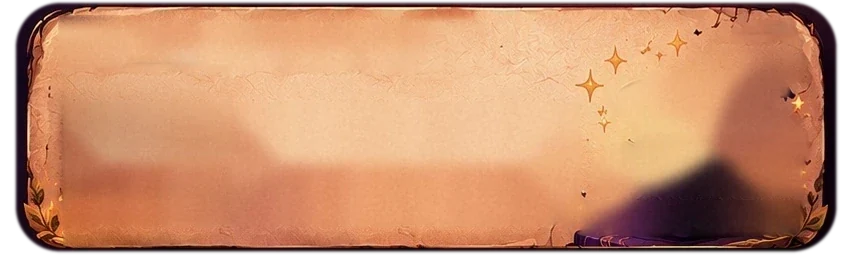
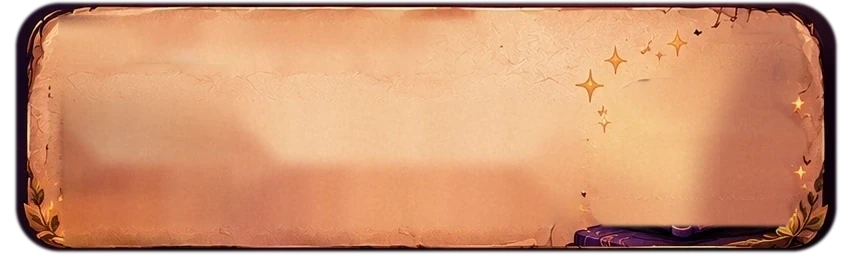
Home: his clean mug (no painted steam), soft puffy natural steam, cleaner pumpkin cut-out with a happy startled hop, giggle right beside him — home-111
Claude-Session: https://claude.ai/code/session_01DZ2Pcymwnpb1uk9AjuiEZF

Changed region(s): [[0.6714, 0.556, 0.946, 0.9266], [0.9155, 0.3398, 0.946, 0.4015], [0.9155, 0.6486, 0.946, 0.6795]]

diff --git a/homefx.js b/homefx.js
@@ -5,68 +5,58 @@
   const reduce=matchMedia('(prefers-reduced-motion: reduce)').matches;
 
   /* ---------- 1. steam ---------- */
-  /* three glowing ribbons, like the painted curls: a wave travels up each one; a finger pushes the ribbon
-     aside (it springs back), and a quick swipe also scatters a few loose puffs */
+  /* soft, puffy steam: cloudy puffs rise from the cup, swell, curl in a gentle draught and thin out.
+     A finger pushes and swirls them; new puffs keep coming, so it always settles back. */
   const cv=document.getElementById('steam');
   if(cv){
     // canvas units = pixels of the nook_fg picture (544×296), which the card shows at its full height on the right
-    const c=cv.getContext('2d'),CW=260,CH=135,FX=238;     // canvas covers picture x 238…498, y 0…135
-    const MX=112,MY=108,N=28,TOP=3;                        // mug opening centre x, just below the rim; points per ribbon; highest point
+    const c=cv.getContext('2d'),CW=300,CH=140,FX=200;     // canvas covers picture x 200…500, y 0…140
+    const MX=150,MY=104,MW=30;                             // cup opening: centre x, just under the rim, half width
     const nook=cv.parentElement;
+    let last=0,on=false,raf=0,ptr=null,T=0,acc=0,parts=[];
+    function size(){const r=cv.getBoundingClientRect(),D=Math.min(devicePixelRatio||1,2);
+      cv.width=Math.max(1,Math.round(r.width*D));cv.height=Math.max(1,Math.round(r.height*D));c.setTransform(cv.width/CW,0,0,cv.height/CH,0,0)}
     function place(){const H=nook.offsetHeight,W=nook.offsetWidth,s=H/296,left=W-544*s;   // same as the card's background placement
       cv.style.left=(left+FX*s)+'px';cv.style.top='0px';cv.style.width=(CW*s)+'px';cv.style.height=(CH*s)+'px';size()}
-    let k=1,last=0,on=false,raf=0,ptr=null,T=0,puffs=[];
-    const R=[{x:-20,ph:0,sp:1.7,amp:17,f:.058,w:9.5,h:.9},{x:2,ph:2.3,sp:1.45,amp:19,f:.048,w:11,h:1},{x:21,ph:4.4,sp:1.9,amp:14,f:.066,w:9,h:.78}]
-      .map(r=>({...r,ox:new Float32Array(N),oy:new Float32Array(N),vx:new Float32Array(N),vy:new Float32Array(N)}));
-    const dot=document.createElement('canvas');dot.width=dot.height=48;
-    {const d=dot.getContext('2d'),g=d.createRadialGradient(24,24,0,24,24,24);
-      g.addColorStop(0,'rgba(255,220,160,.9)');g.addColorStop(.4,'rgba(250,160,70,.4)');g.addColorStop(1,'rgba(240,130,50,0)');d.fillStyle=g;d.fillRect(0,0,48,48)}
-    function size(){
-      const r=cv.getBoundingClientRect();k=r.width/CW||1;const D=Math.min(devicePixelRatio||1,2);
-      cv.width=Math.max(1,Math.round(r.width*D));cv.height=Math.max(1,Math.round(r.height*D));c.setTransform(cv.width/CW,0,0,cv.height/CH,0,0)}
-    // where point i of a ribbon is now (without the finger's push)
-    function base(r,i){const u=i/(N-1),y=MY-(MY-TOP)*u*r.h,grow=Math.pow(u,.8);
-      // the breathing: each ribbon slowly leans and its height swells a little
-      const x=MX+r.x+Math.sin((MY-y)*r.f-T*r.sp+r.ph)*r.amp*grow+Math.sin(T*.4+r.ph)*8*u*u;
-      return [x,y]}
+    // a few cloudy puff pictures (lumpy, not perfect circles), made once
+    const SPR=[];for(let n=0;n<5;n++){const e=document.createElement('canvas');e.width=e.height=96;const d=e.getContext('2d');
+      for(let i=0;i<9;i++){const a=Math.random()*6.28,r=Math.random()*18,x=48+Math.cos(a)*r,y=48+Math.sin(a)*r,R=16+Math.random()*16,
+        g=d.createRadialGradient(x,y,0,x,y,R);g.addColorStop(0,'rgba(255,255,255,.55)');g.addColorStop(.5,'rgba(255,255,255,.22)');g.addColorStop(1,'rgba(255,255,255,0)');
+        d.fillStyle=g;d.fillRect(0,0,96,96)}
+      d.globalCompositeOperation='source-in';d.fillStyle='#fff3e4';d.fillRect(0,0,96,96);SPR.push(e)}
+    function emit(){const u=Math.random()*2-1;
+      parts.push({x:MX+u*MW*.8,y:MY-2-Math.random()*4,vx:u*3,vy:-(12+Math.random()*7),age:0,life:3.2+Math.random()*1.8,
+        r:7+Math.random()*5,g:1.0+Math.random()*.8,rot:Math.random()*6.28,vr:(Math.random()-.5)*.6,s:SPR[(Math.random()*SPR.length)|0],
+        k:.55+Math.random()*.45,sd:Math.random()*100})}
+    // a slow, lazy draught: the puffs curl left and right as they rise
+    const draft=(x,y,sd)=>Math.sin(y*.045+T*.55+sd)*7+Math.sin(x*.03-T*.4+sd*.7)*4+Math.sin(T*.23)*3;
     function step(dt){
-      T+=dt;
-      for(const r of R)for(let i=1;i<N;i++){     // the push springs back
-        r.vx[i]+=(-r.ox[i]*14-r.vx[i]*3.2)*dt;r.vy[i]+=(-r.oy[i]*14-r.vy[i]*3.2)*dt;r.ox[i]+=r.vx[i]*dt;r.oy[i]+=r.vy[i]*dt}
-      for(const p of puffs){p.age+=dt;p.x+=p.vx*dt;p.y+=p.vy*dt;p.vx*=Math.pow(.3,dt);p.vy+=(-14-p.vy)*Math.min(1,dt*2);p.r+=dt*7}
-      puffs=puffs.filter(p=>p.age<p.life)}
+      T+=dt;acc+=dt*13;while(acc>1){acc--;if(parts.length<90)emit()}
+      for(const p of parts){p.age+=dt;
+        p.vx+=(draft(p.x,p.y,p.sd)-p.vx)*Math.min(1,dt*.9);p.vy+=(-(13+p.age*2)-p.vy)*Math.min(1,dt*.8);
+        p.x+=p.vx*dt;p.y+=p.vy*dt;p.r+=p.g*dt*7;p.rot+=p.vr*dt}
+      parts=parts.filter(p=>p.age<p.life&&p.y>-p.r)}
     function draw(){
-      c.clearRect(0,0,CW,CH);c.lineCap='round';c.lineJoin='round';
-      for(const r of R){
-        const P=[];for(let i=0;i<N;i++){const [x,y]=base(r,i);P.push([x+r.ox[i],y+r.oy[i]])}
-        for(let pass=0;pass<2;pass++){          // soft glow underneath, bright core on top
-          for(let i=1;i<N;i++){const u=i/(N-1),fade=Math.min(1,u*14)*Math.pow(1-u,1.1);if(fade<.02)continue;
-            const w=r.w*(1-u*.7)*(pass?1:2.4);
-            c.strokeStyle=pass?`rgba(255,${172+Math.round(45*(1-u))},${82+Math.round(60*(1-u))},${.95*fade})`:`rgba(245,140,50,${.3*fade})`;
-            c.lineWidth=w;c.beginPath();const a=P[i-1],b=P[i],m=P[Math.min(N-1,i+1)];
-            c.moveTo(a[0],a[1]);c.quadraticCurveTo(b[0],b[1],(b[0]+m[0])/2,(b[1]+m[1])/2);c.stroke()}}
-      }
-      if(puffs.length){c.globalCompositeOperation='lighter';
-        for(const p of puffs){const t=p.age/p.life;c.globalAlpha=Math.min(1,p.age*5)*(1-t)*.5;const s=p.r*2;c.drawImage(dot,p.x-s/2,p.y-s/2,s,s)}
-        c.globalAlpha=1;c.globalCompositeOperation='source-over'}
-    }
+      c.clearRect(0,0,CW,CH);c.globalCompositeOperation='screen';
+      for(const p of parts){const t=p.age/p.life,h=Math.max(0,Math.min(1,(MY-p.y)/MY));
+        // thick and bright just above the cup, thinning out higher up
+        const a=Math.min(1,p.age*2.2)*Math.pow(1-t,1.6)*(1-h*.55)*.5*p.k;if(a<.01)continue;
+        c.globalAlpha=a;const S=p.r*2.4;c.save();c.translate(p.x,p.y);c.rotate(p.rot);c.drawImage(p.s,-S/2,-S/2,S,S);c.restore()}
+      c.globalAlpha=1;c.globalCompositeOperation='source-over'}
     function frame(now){const dt=Math.min(.05,(now-last)/1000||0);last=now;step(dt);draw();raf=on?requestAnimationFrame(frame):0}
     function start(){if(on||document.hidden||reduce)return;on=true;last=performance.now();raf=requestAnimationFrame(frame)}
     function stop(){on=false;if(raf)cancelAnimationFrame(raf);raf=0}
+    // a finger in the steam: nearby puffs are pushed away and swirled, and dragged along with a swipe
     const at=e=>{const r=cv.getBoundingClientRect();return{x:(e.clientX-r.left)/r.width*CW,y:(e.clientY-r.top)/r.height*CH}};
-    function stir(q,mvx,mvy,tap){
-      const sp=Math.hypot(mvx,mvy);
-      for(const r of R)for(let i=2;i<N;i++){const [bx,by]=base(r,i),x=bx+r.ox[i],y=by+r.oy[i],dx=x-q.x,dy=y-q.y,d=Math.hypot(dx,dy)||1;
-        if(d>40)continue;const f=1-d/40;
-        r.vx[i]+=(dx/d*(tap?160:70)+mvx*.5)*f;r.vy[i]+=(dy/d*(tap?60:30)+mvy*.3)*f*.6;
-        if((tap||sp>120)&&Math.random()<.18*f)puffs.push({x,y,vx:dx/d*30+mvx*.3,vy:-10+mvy*.2,r:3,age:0,life:.9+Math.random()*.6})}
-      if(!on&&!reduce)start()}
+    function stir(q,mvx,mvy,tap){for(const p of parts){const dx=p.x-q.x,dy=p.y-q.y,d=Math.hypot(dx,dy)||1,R=p.r+26;if(d>R)continue;const f=1-d/R;
+      p.vx+=(dx/d*(tap?55:25)-dy/d*20+mvx*.45)*f;p.vy+=(dy/d*(tap?55:25)+dx/d*20+mvy*.45)*f;p.vr+=(Math.random()-.5)*2*f;p.r+=tap?4*f:1.5*f}}
     cv.addEventListener('pointerdown',e=>{e.preventDefault();const q=at(e);ptr={...q,t:performance.now()};stir(q,0,0,true);try{cv.setPointerCapture(e.pointerId)}catch(err){}});
     cv.addEventListener('pointermove',e=>{if(!ptr)return;const q=at(e),now=performance.now(),dt=Math.max(.008,(now-ptr.t)/1000);
-      stir(q,Math.max(-600,Math.min(600,(q.x-ptr.x)/dt)),Math.max(-600,Math.min(600,(q.y-ptr.y)/dt)),false);ptr={...q,t:now}});
+      stir(q,Math.max(-400,Math.min(400,(q.x-ptr.x)/dt)),Math.max(-400,Math.min(400,(q.y-ptr.y)/dt)),false);ptr={...q,t:now}});
     const up=()=>{ptr=null};cv.addEventListener('pointerup',up);cv.addEventListener('pointercancel',up);
     cv.addEventListener('click',e=>e.stopPropagation());   // stirring the steam never opens the book
     place();addEventListener('resize',place);if(window.ResizeObserver)new ResizeObserver(place).observe(nook);
+    for(let i=0;i<300;i++)step(1/60);                       // already steaming when Home appears
     document.addEventListener('visibilitychange',()=>document.hidden?stop():start());
     addEventListener('pagehide',stop);addEventListener('pageshow',start);
     draw();start();
@@ -82,8 +72,9 @@
       if(reduce)return;
       // a little giggle floats up beside him
       const words=['hee hee!','hehe!','tee hee!'],h=document.createElement('span');
-      h.className='giggle';h.textContent=words[n++%words.length];h.style.setProperty('--dx',(n%2?-1:1)*(10+Math.random()*16)+'px');
-      h.style.left=(n%2?62:88)+'%';card.appendChild(h);setTimeout(()=>h.remove(),1500);
+      // right beside him: just left of his hat brim, or up by the tip of his hat
+      h.className='giggle';h.textContent=words[n++%words.length];const side=n%2;h.style.setProperty('--dx',(side?-1:1)*(6+Math.random()*8)+'px');
+      h.style.left=(side?71:83)+'%';h.style.top=(side?28:-2)+'%';card.appendChild(h);setTimeout(()=>h.remove(),1600);
     });
     pk.addEventListener('animationend',()=>pk.classList.remove('tickle'));
   }

diff --git a/home.css b/home.css
@@ -107,19 +107,20 @@ html.intro-on,html.intro-on body{background:#0e0416!important}   /* dark behind 
 #tabbar .bookhit{position:absolute;left:34.6%;width:30.8%;bottom:calc(0px - env(safe-area-inset-bottom,0px));height:calc(98% + env(safe-area-inset-bottom,0px));-webkit-tap-highlight-color:transparent;cursor:pointer}   /* middle half of the book */
 
 /* ---------- Latest Addition: the reading pumpkin is his own picture, so he can be tickled (homefx.js) ---------- */
-#pkReader{left:67.606%;top:5.405%;width:27.7%;height:85.71%;cursor:pointer;-webkit-tap-highlight-color:transparent;-webkit-touch-callout:none;-webkit-user-select:none;user-select:none;transform-origin:50% 96%}
-#pkReader.tickle{animation:tickle 1.05s cubic-bezier(.3,0,.3,1)}
+#pkReader{left:67.606%;top:3.861%;width:27.7%;height:85.71%;cursor:pointer;-webkit-tap-highlight-color:transparent;-webkit-touch-callout:none;-webkit-user-select:none;user-select:none;transform-origin:50% 100%}
+/* tickled: a happy startled hop — crouch, spring up, float, land with a squish and a little bounce */
+#pkReader.tickle{animation:tickle .95s linear}
 @keyframes tickle{
- 0%{transform:none}
- 9%{transform:rotate(-4deg) scale(1.04,.95)}
- 20%{transform:rotate(3.5deg) scale(.97,1.04) translateY(-4px)}
- 31%{transform:rotate(-3.5deg) scale(1.04,.95)}
- 42%{transform:rotate(3deg) scale(.97,1.04) translateY(-3px)}
- 53%{transform:rotate(-2.5deg) scale(1.03,.97)}
- 64%{transform:rotate(2deg) scale(.99,1.02) translateY(-1px)}
- 76%{transform:rotate(-1deg) scale(1.01,.99)}
+ 0%{transform:none;animation-timing-function:ease-out}
+ 9%{transform:translateY(3px) scale(1.07,.9);animation-timing-function:cubic-bezier(.2,.8,.4,1)}
+ 26%{transform:translateY(-30px) scale(.94,1.08) rotate(-4deg);animation-timing-function:ease-in-out}
+ 38%{transform:translateY(-34px) scale(.98,1.02) rotate(3deg);animation-timing-function:cubic-bezier(.5,0,.9,.6)}
+ 52%{transform:translateY(2px) scale(1.09,.89);animation-timing-function:ease-out}
+ 63%{transform:translateY(-9px) scale(.97,1.04) rotate(-1deg);animation-timing-function:ease-in}
+ 74%{transform:translateY(1px) scale(1.03,.97);animation-timing-function:ease-out}
+ 86%{transform:translateY(-2px) scale(.995,1.01)}
  100%{transform:none}}
-#reading .giggle{top:14%;z-index:4;pointer-events:none;font:italic 30px/1 "IM Fell English",Georgia,serif;color:#8a3d12;text-shadow:0 0 6px rgba(255,230,180,.9);white-space:nowrap;animation:giggle 1.4s ease-out forwards}
-@keyframes giggle{0%{opacity:0;transform:translate(-50%,18px) scale(.6)}18%{opacity:1;transform:translate(-50%,0) scale(1.05)}100%{opacity:0;transform:translate(calc(-50% + var(--dx,0px)),-34px) scale(1)}}
+#reading .giggle{z-index:4;pointer-events:none;font:italic 30px/1 "IM Fell English",Georgia,serif;color:#8a3d12;text-shadow:0 0 6px rgba(255,230,180,.95),0 0 2px rgba(255,240,210,1);white-space:nowrap;animation:giggle 1.3s ease-out .12s backwards}
+@keyframes giggle{0%{opacity:0;transform:translate(-50%,14px) scale(.5)}20%{opacity:1;transform:translate(-50%,0) scale(1.08)}100%{opacity:0;transform:translate(calc(-50% + var(--dx,0px)),-26px) scale(1)}}
 /* ---------- Next to Collect: living steam over the mug (homefx.js); the steam is no longer painted in nook_fg ---------- */
 #nook #steam{left:500px;top:0;width:260px;height:135px;touch-action:none;cursor:pointer;-webkit-tap-highlight-color:transparent}

diff --git a/index.html b/index.html
@@ -6,7 +6,7 @@
 <meta name="color-scheme" content="dark">
 <meta name="theme-color" content="#0e0416">
 <meta http-equiv="Cache-Control" content="no-cache">
-<meta name="app-version" content="home-110">
+<meta name="app-version" content="home-111">
 <script>try{document.documentElement.classList.add(sessionStorage.getItem('intro.shown')==='1'?'back':'intro-on')}catch(e){}</script>
 <meta name="viewport" content="width=device-width, initial-scale=1, viewport-fit=cover, user-scalable=no">
 <link rel="preload" as="image" href="img/frame.webp" fetchpriority="high">

diff --git a/home.js b/home.js
@@ -100,7 +100,7 @@ if(document.fonts)document.fonts.ready.then(()=>{const q=document.getElementById
 document.addEventListener('visibilitychange',()=>{if(!document.hidden)showQuote()});
 
 /* ---------- offline + auto-update ---------- */
-const APP_VERSION='home-110';
+const APP_VERSION='home-111';
 // a new version arrived: drop the saved pictures once so new art shows straight away
 try{const v=localStorage.getItem('home.ver');
   if(v!==APP_VERSION){localStorage.setItem('home.ver',APP_VERSION);
